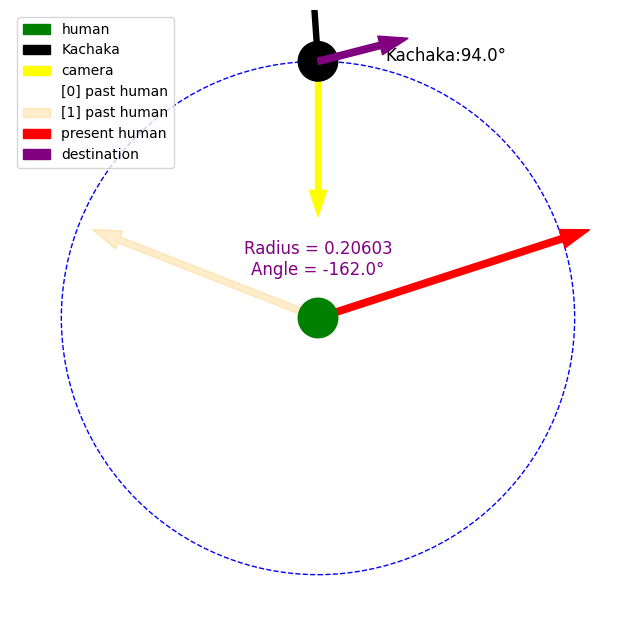
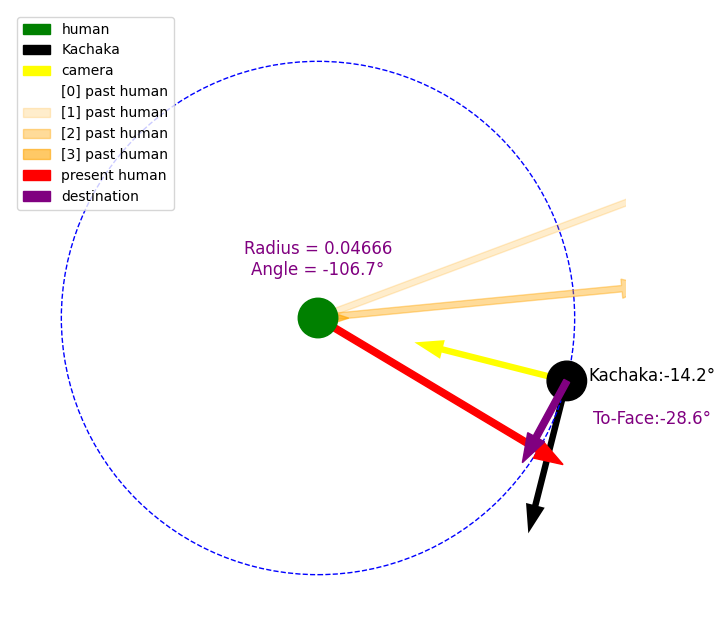
circle worked

diff --git a/stalk/funcs.py b/stalk/funcs.py
@@ -144,9 +144,9 @@ class KachakaFrame():
                 angular_speed = np.sign(angular_speed)*max(abs(angular_speed), MIN_ANGULAR_SPEED)
             else:
                 self.dest_pose = None
-                print(f"DESTINATION {dest_theta} REACHED")
+                # print(f"DESTINATION {dest_theta} REACHED")
             await self.async_client.set_robot_velocity(0, angular_speed)
-            print(np.rad2deg(dest_theta), np.rad2deg(cur_theta), np.rad2deg(angle_diff))
+            # print(np.rad2deg(dest_theta), np.rad2deg(cur_theta), np.rad2deg(angle_diff))
         else:
             await self.async_client.set_robot_velocity(self.linear, self.angular)
 
@@ -346,26 +346,29 @@ class KachakaFrame():
     async def adjust_to_front(self):
         m = self.mp_landmark_model
         if self.target_found and m.landmarks is not None:
-            pose_task = asyncio.create_task(self.get_robot_pose())
-            # get distance to target user
-            target_deg = self._find_deg_from_landmarks() # +90 for offset
-            # z_dist = m.get_distance_to_hip()
-            z_dist = m.get_distance_to_shoulder()
-            d_step = z_dist / 4 # chord len (dist to travel between 2 vertices on the circumference)
-            (pose_x, pose_y), pose_theta  = await pose_task
-            pose_deg = np.rad2deg(pose_theta)
-            # pose_theta = np.deg2rad(pose_deg)
-            # TODO: angular offset in the x-axis between kachaka and camera, will be determined with robot arm later
-            camera_to_kachaka_offset = 90-pose_deg # assume camera is placed 90deg against kachaka
-            camera_deg = -90 # camera assumed to always face human
-            if self.dest_pose is None: # only if dest_pose is empty, to prevent the kachaka robot overloading
+            # only if dest_pose is empty, to prevent the kachaka robot overloading
+            # and if z_dist is relatively close
+            if self.dest_pose is None:
+                pose_task = asyncio.create_task(self.get_robot_pose())
+                # get distance to target user
+                target_deg = self._find_deg_from_landmarks() # +90 for offset
+                # z_dist = m.get_distance_to_hip()
+                z_dist = m.get_distance_to_shoulder()
+                d_step = z_dist / 4 # chord len (dist to travel between 2 vertices on the circumference)
+                (pose_x, pose_y), pose_theta  = await pose_task
+                pose_deg = np.rad2deg(pose_theta)
+                # pose_theta = np.deg2rad(pose_deg)
+                # TODO: angular offset in the x-axis between kachaka and camera, will be determined with robot arm later
+                camera_to_kachaka_offset = 90-pose_deg # assume camera is placed 90deg against kachaka and sees person up front
+                camera_deg = -90 # camera assumed to always face human
                 c = 2*math.asin(d_step/(2*z_dist)) # angle to turn
-                if target_deg+90 > 0:
-                    angle_to_turn = math.pi + c
-                    new_pose = pose_theta - angle_to_turn
+                if target_deg+90 < 0:
+                    new_pose = pose_theta - c
+                    self.linear = -1
                 else:
-                    angle_to_turn = c
-                    new_pose = pose_theta+np.pi+angle_to_turn
+                    new_pose = pose_theta + c
+                    self.linear = 1
+                print(z_dist)
                 self.dest_pose = (pose_x, pose_y, new_pose)
                 """
                 pose_deg = 0
@@ -373,39 +376,42 @@ class KachakaFrame():
                 """
                 # print(f"target_deg:{round(target_deg,1)} | camera_deg:{round(camera_deg,1)} | kachaka_deg:{round(np.rad2deg(pose_theta),1)} | angle_to_turn:{round(np.rad2deg(angle_to_turn),1)}")
                 # visualize
-                await self._visualize_adjusting_to_front(z_dist, np.deg2rad(target_deg), np.deg2rad(camera_deg), d_step, angle_to_turn, pose_theta)
+                await self._visualize_adjusting_to_front(z_dist, np.deg2rad(target_deg), np.deg2rad(camera_deg), d_step, new_pose, pose_theta)
             
     async def _visualize_adjusting_to_front(self, z_dist, target_rads, camera_rads, step_distance, angle_to_turn, kachaka_theta): # assumes camera is facing towards target
         m = self.mp_landmark_model
         if m.result.pose_landmarks:
             fig,ax = plt.subplots(figsize=(12,8))
             center = (0,0)
-            kachaka = (0,z_dist)
+            kachaka = (z_dist*math.cos(kachaka_theta),z_dist*math.sin(kachaka_theta))
             arrow_sca = 40
             ax.add_artist(plt.Circle(center, z_dist/13, color="green", zorder=5, label="human")) # circle center
             ax.add_artist(plt.Circle(center, z_dist, color="blue", fill=False, linestyle="dashed", zorder=3)) # circumference
             ax.add_artist(plt.Circle(kachaka, z_dist/13, color="black", zorder=3)) #kachaka obj
             # kachaka pov
-            kachaka_arrow = ax.arrow(kachaka[0], kachaka[1], z_dist/2 * np.cos(kachaka_theta), z_dist/2 * np.sin(kachaka_theta), width=z_dist/arrow_sca, shape="full", color="black", linestyle="", label="Kachaka")
-            ax.text(kachaka[0]+z_dist/2, kachaka[1], f"Kachaka:{round(np.rad2deg(kachaka_theta),1)}°", fontsize=12, ha='center', color='black')
+            kachaka_arrow = ax.arrow(kachaka[0], kachaka[1], *get_coords_from_angle(kachaka_theta-math.pi/2, z_dist/2), width=z_dist/arrow_sca, shape="full", color="black", linestyle="", label="Kachaka")
+            ax.text(kachaka[0]+z_dist/3, kachaka[1], f"Kachaka:{round(np.rad2deg(kachaka_theta),1)}°", fontsize=12, ha='center', color='black')
             # camera pov
-            camera_arrow = ax.arrow(kachaka[0], kachaka[1], z_dist/2 * np.cos(camera_rads), z_dist/2 * np.sin(camera_rads), width=z_dist/arrow_sca, shape="full", color="yellow", linestyle="", label="camera")
+            camera_arrow = ax.arrow(kachaka[0], kachaka[1], *get_coords_from_angle(kachaka_theta, -z_dist/2), width=z_dist/arrow_sca, shape="full", color="yellow", linestyle="", label="camera")
             # past target povs
-            self.visualize_prev_locations.append(((0,-z_dist*np.cos(target_rads)),(0,-z_dist*np.sin(target_rads))))
+            self.visualize_prev_locations.append((0, 0, *get_coords_from_angle(kachaka_theta-math.pi/2+target_rads, -z_dist)))
             if len(self.visualize_prev_locations) > 5:
                 self.visualize_prev_locations.pop(0)
             for i,n in enumerate(self.visualize_prev_locations):
-                (x,dx),(y,dy) = n
+                x,y,dx,dy = n
                 if i == len(self.visualize_prev_locations)-1:
                     # most recent line to be draw with different colour and full alpha
                     ax.arrow(x, y, dx, dy, color="red", linestyle="solid", lw=1, zorder=4, width=z_dist/arrow_sca, shape="full", label="present human")
                 else:
                     ax.arrow(x, y, dx, dy, color="orange", linestyle="solid", lw=1, zorder=4, alpha=(255/5 * i)/255, width=z_dist/arrow_sca, label=f"[{i}] past human")
             # kachaka destination
-            destination_arrow = ax.arrow(*kachaka, step_distance*math.cos(angle_to_turn), step_distance*math.sin(angle_to_turn), color="purple", linestyle="solid", lw=1, zorder=4, width=z_dist/arrow_sca, shape="full", label="destination")
+            if target_rads+math.pi/2 < 0:
+                destination_arrow = ax.arrow(*kachaka, *get_coords_from_angle(angle_to_turn-math.pi/2, step_distance), color="purple", linestyle="solid", lw=1, zorder=4, width=z_dist/arrow_sca, shape="full", label="destination")
+            else:
+                destination_arrow = ax.arrow(*kachaka, *get_coords_from_angle(angle_to_turn+math.pi/2, step_distance), color="purple", linestyle="solid", lw=1, zorder=4, width=z_dist/arrow_sca, shape="full", label="destination")
+            ax.text(kachaka[0]+z_dist/3, kachaka[1]-z_dist/6, f"To-Face:{round(np.rad2deg(angle_to_turn),1)}°", fontsize=12, ha='center', color='purple')
             # draw some info text on center
-            ax.text(0, z_dist/6, f'Radius = {round(z_dist,5)}\nAngle = {round(np.rad2deg(target_rads),1)}°', 
-                    fontsize=12, ha='center', color='purple')
+            ax.text(0, z_dist/6, f'Radius = {round(z_dist,5)}\nAngle = {round(np.rad2deg(target_rads),1)}°', fontsize=12, ha='center', color='purple')
             c = 1.2
             ax.set_xlim(-z_dist*c, z_dist*c)
             ax.set_ylim(-z_dist*c, z_dist*c)
@@ -742,6 +748,12 @@ async def anext(iterator, default=None):
 
 def mod_radians(r:float):
     return r%(math.pi*2)
+
+def get_coords_from_angle(theta:float, r:float = 1) -> tuple[float, float]:
+    """given hypotenuse and angle, return (x,y) components
+    """
+    theta = theta % (2*math.pi)
+    return (r*math.cos(theta), r*math.sin(theta))
 
 class C:
     RED = "\033[31m"
